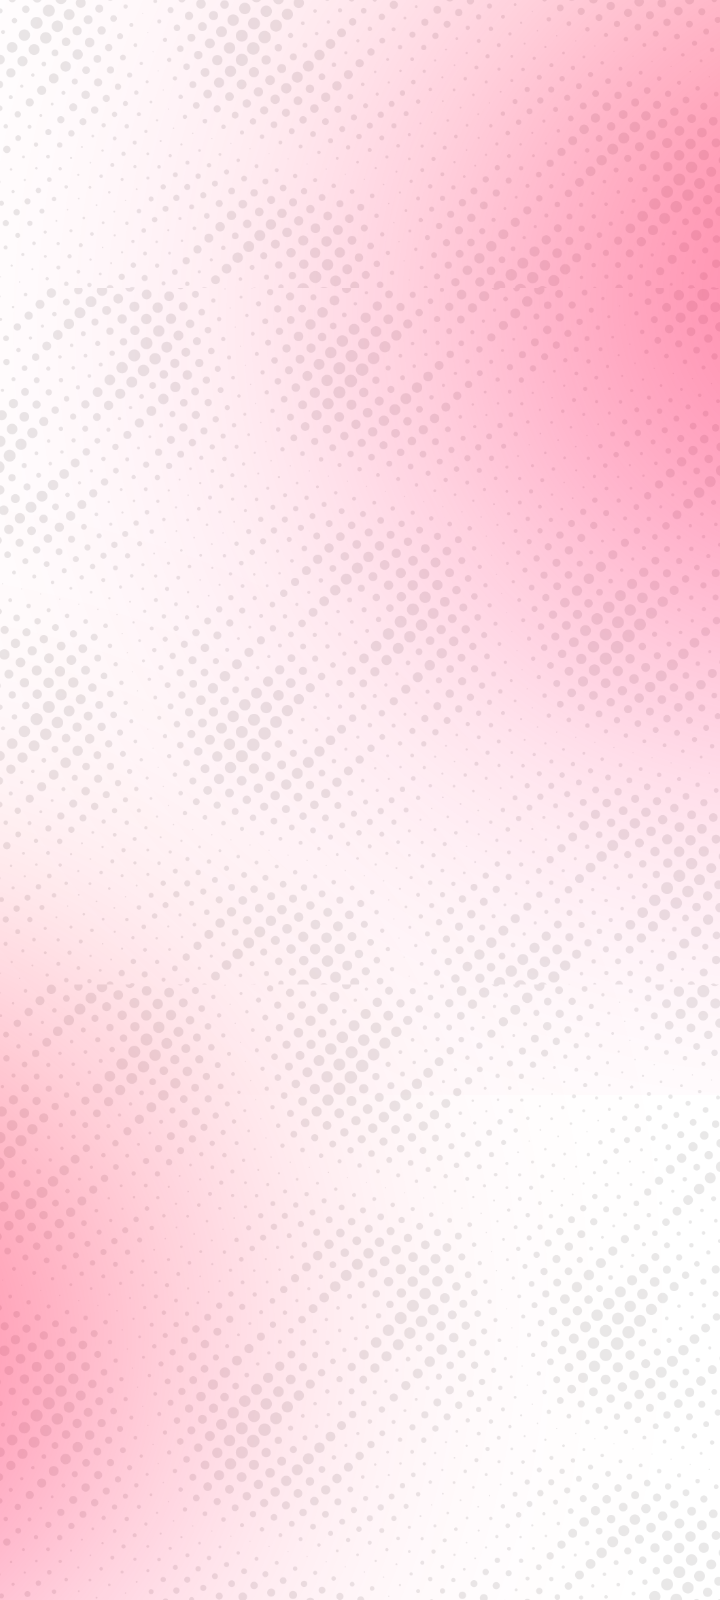
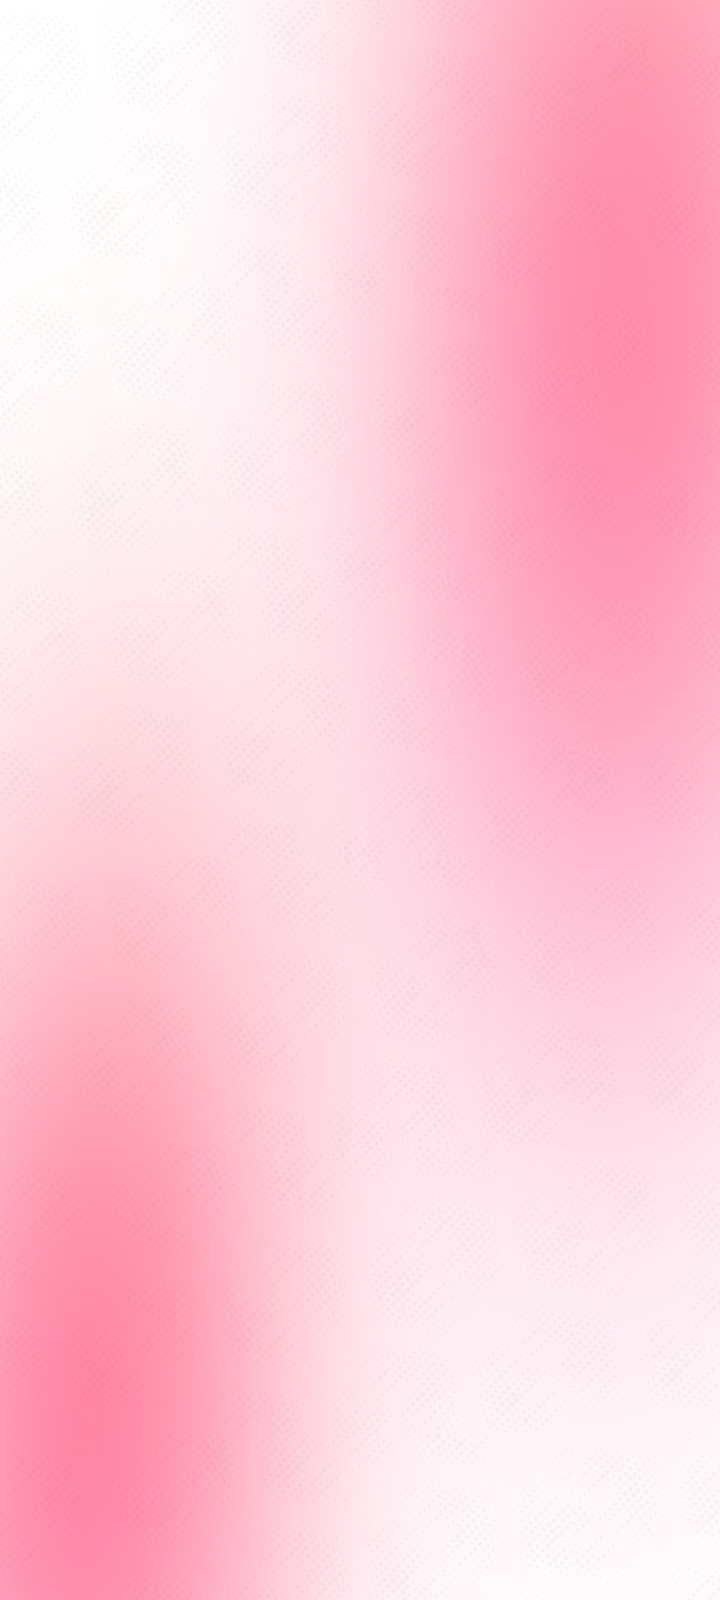
adjust list and highlights, change backgrounds and add reference for switch and button

diff --git a/style.css b/style.css
@@ -6,12 +6,20 @@
 
 :root {
     --text-color: white;
-    --bg-url: url(./assets/bg-dark-mobile.png)
+    --bg-url: url(./assets/bg-dark-mobile.png);
+    --stroke-color: rgba(134, 134, 134, 0.5);
+    --surface-color: rgba(255, 255, 255, 0.1);
+    --surface-color-hover: rgba(0, 0, 0, 0.233);
+    --highlight-color: rgba(255, 255, 255, 0.2);
 }
 
 .light {
     --text-color: black;
     --bg-url: url(./assets/bg-light-mobile.png);
+    --stroke-color: rgba(0, 0, 0, 0.5);
+    --surface-color: rgba(0, 0, 0, 0, 05);
+     --surface-color-hover: rgba(255, 138, 239, 0.199);
+    --highlight-color: rgba(255, 9, 255, 0.089);
 }
 
 body {
@@ -58,11 +66,33 @@ ul {
     padding: 24px 0;
 }
 ul li a {
-display: flex;
-align-items: center;
-justify-content: center;
-padding: 16px 24px;
-border-radius: 8px;
-text-decoration: none;
-font-weight: 500;
+border: 1px solid var(--stroke-color);
+  display: flex;
+  
+  align-items: center;
+  justify-content: center;
+  padding: 16px 24px;
+
+  background: var(--surface-color);
+  border-radius: 8px;
+  backdrop-filter: blur(4px);
+  -webkit-backdrop-filter: blur(4px);
+
+  text-decoration: none;
+  font-weight: 500;
+
+  transition: background 0.2s;
+}
+
+/*pseudo selector*/
+
+ul li a:hover {
+    background: var(--surface-color-hover);
+    border: 1.5px solid var(--text-color);
+}
+
+footer {
+    padding: 24px 0;
+    text-align: center;
+    font-size: 14px;
 }

diff --git a/index.html b/index.html
@@ -36,5 +36,10 @@
         <a href="https://docs.google.com/document/d/14RE-zGoCtvQyAxJFTGW_OapkhSGnK9YcqHICE5hjAvo/edit?usp=sharing" target="_blank">Resume</a>
     </li>
 </ul>
+
+<footer>Made with ♥ by
+    <a href="discord.com/users/kulzcow">Kulzcow</a>
+</footer>
+
 </body>
 </html>
